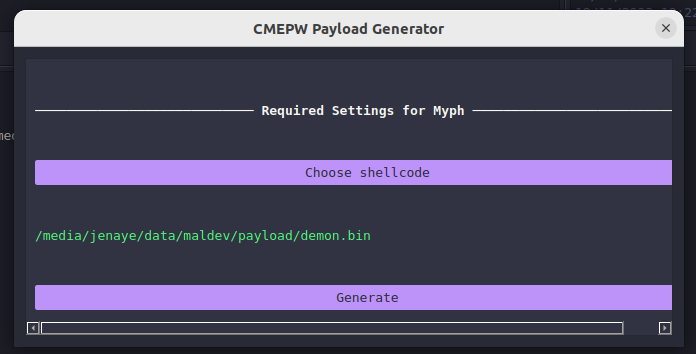
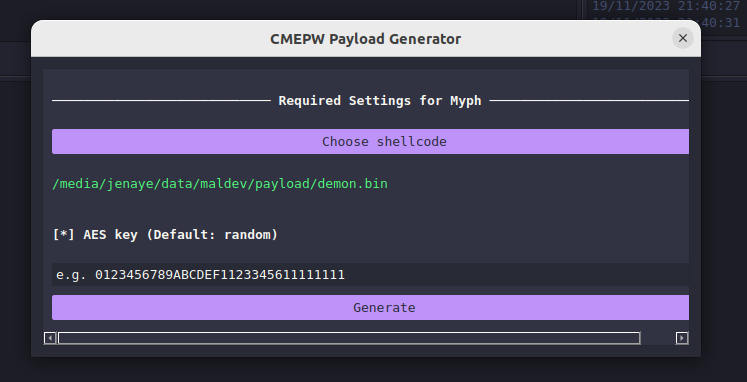
user can now set key value

diff --git a/cmepw.py b/cmepw.py
@@ -16,6 +16,9 @@ loader_path = "/media/jenaye/data/tools/221b"
 loader_path_myph = "/media/jenaye/data/tools/myph"
 payload_file_path = "/tmp/payload.bin"
 
+myph_key = ""
+baker_key = ""
+
 # Variables & Defaults
 shellcode_path = ""
 
@@ -38,6 +41,19 @@ log = havocui.Logger("CMEPW Log")
 
 
 label_to_replace = f"<b style=\"color:{havoc_error};\">No shellcode selected.</b>"
+
+def change_default_key(k): 
+    global myph_key
+    myph_key = k
+    print("[*] Key changed: ", myph_key)
+
+
+def change_default_key_baker(k): 
+    global baker_key
+    baker_key = k
+    print("[*] Key changed: ", baker_key)
+
+
 def change_shellcode_path(): 
     global shellcode_path
     global label_to_replace
@@ -47,13 +63,18 @@ def change_shellcode_path():
     dialog.replaceLabel(label_to_replace, formatted_shellcode_path)
     label_to_replace = formatted_shellcode_path if shellcode_path != " " else f"<b style=\"color:{havoc_error};\">No shellcode selected.</b>" 
 
-
 # Execute 221b loader and get output
 def execute(file): 
     log.addText(f"[<span style=\"color:{havoc_info};\">*</span>] Selecting output file path.")
 
-    os.system(f'{loader_path}/221b bake -m aes -k "0123456789ABCDEF1123345611111111" -s {shellcode_path} -o /tmp/bake.exe')
-    # give the user the option of choosing the key
+    if baker_key == "":
+        log.addText(f"[<span style=\"color:{havoc_info};\">*</span>] No AES key provide it will be this one : '0123456789ABCDEF1123345611111111'")
+        os.system(f'{loader_path}/221b bake -m aes -k "0123456789ABCDEF1123345611111111" -s {shellcode_path} -o /tmp/bake.exe')
+        print(f'{loader_path}/myph -s {shellcode_path} --out /tmp/myph.exe"')
+    else:
+        os.system(f'{loader_path}/221b bake -m aes -k {baker_key} -s {shellcode_path} -o /tmp/bake.exe')
+        print(f'{loader_path}/myph -k {baker_key} -s {shellcode_path} --out /tmp/bake.exe')
+        
 
     # Create Log
     log.addText(f"this command has been be executed :  {loader_path}/221b bake -m aes -k '0123456789ABCDEF1123345611111111' -s {shellcode_path} -o /tmp/bake.exe')")
@@ -62,9 +83,16 @@ def execute(file):
 
 
 def execute_myph(file): 
-    log.addText(f"[<span style=\"color:{havoc_info};\">*</span>] Selecting output file path.")
 
-    os.system(f'{loader_path_myph}/myph -s {shellcode_path} --out /tmp/myph.exe')
+    log.addText(f"[<span style=\"color:{havoc_info};\">*</span>] Selecting output file path.")
+    
+    if myph_key == "":
+        log.addText(f"[<span style=\"color:{havoc_info};\">*</span>] No AES key provide it will be random one.")
+        os.system(f'{loader_path_myph}/myph -s {shellcode_path} --out /tmp/myph.exe')
+        print(f'{loader_path_myph}/myph -s {shellcode_path} --out /tmp/myph.exe"')
+    else:
+        os.system(f'{loader_path_myph}/myph -k {myph_key} -s {shellcode_path} --out /tmp/myph.exe')
+        print(f'{loader_path_myph}/myph -k {myph_key} -s {shellcode_path} --out /tmp/myph.exe')
     # give the user the option of choosing the key
 
     # Create Log
@@ -104,6 +132,7 @@ def run_myph():
 
     dialog.close()
 
+
 def build(): 
     dialog.clear()
 
@@ -115,8 +144,11 @@ def build():
     dialog.addLabel(f"<b>──────────────────────────── Required Settings for 221 b ────────────────────────────</b>")
     dialog.addButton("Choose shellcode", change_shellcode_path)
     dialog.addLabel(label_to_replace)
+    dialog.addLabel("<b>[*] AES key (Default: '0123456789ABCDEF1123345611111111')</b>")
+    dialog.addLineedit("e.g. 0123456789ABCDEF1123345611111111", change_default_key_baker)
     dialog.addButton("Generate", run)
     dialog.exec() 
+
 
 
 def build_myph(): 
@@ -130,6 +162,8 @@ def build_myph():
     dialog.addLabel(f"<b>──────────────────────────── Required Settings for Myph ─────────────────────────────</b>")
     dialog.addButton("Choose shellcode", change_shellcode_path)
     dialog.addLabel(label_to_replace)
+    dialog.addLabel("<b>[*] AES key (Default: random)</b>")
+    dialog.addLineedit("e.g. 0123456789ABCDEF1123345611111111", change_default_key)
     dialog.addButton("Generate", run_myph)
     dialog.exec() 
 
